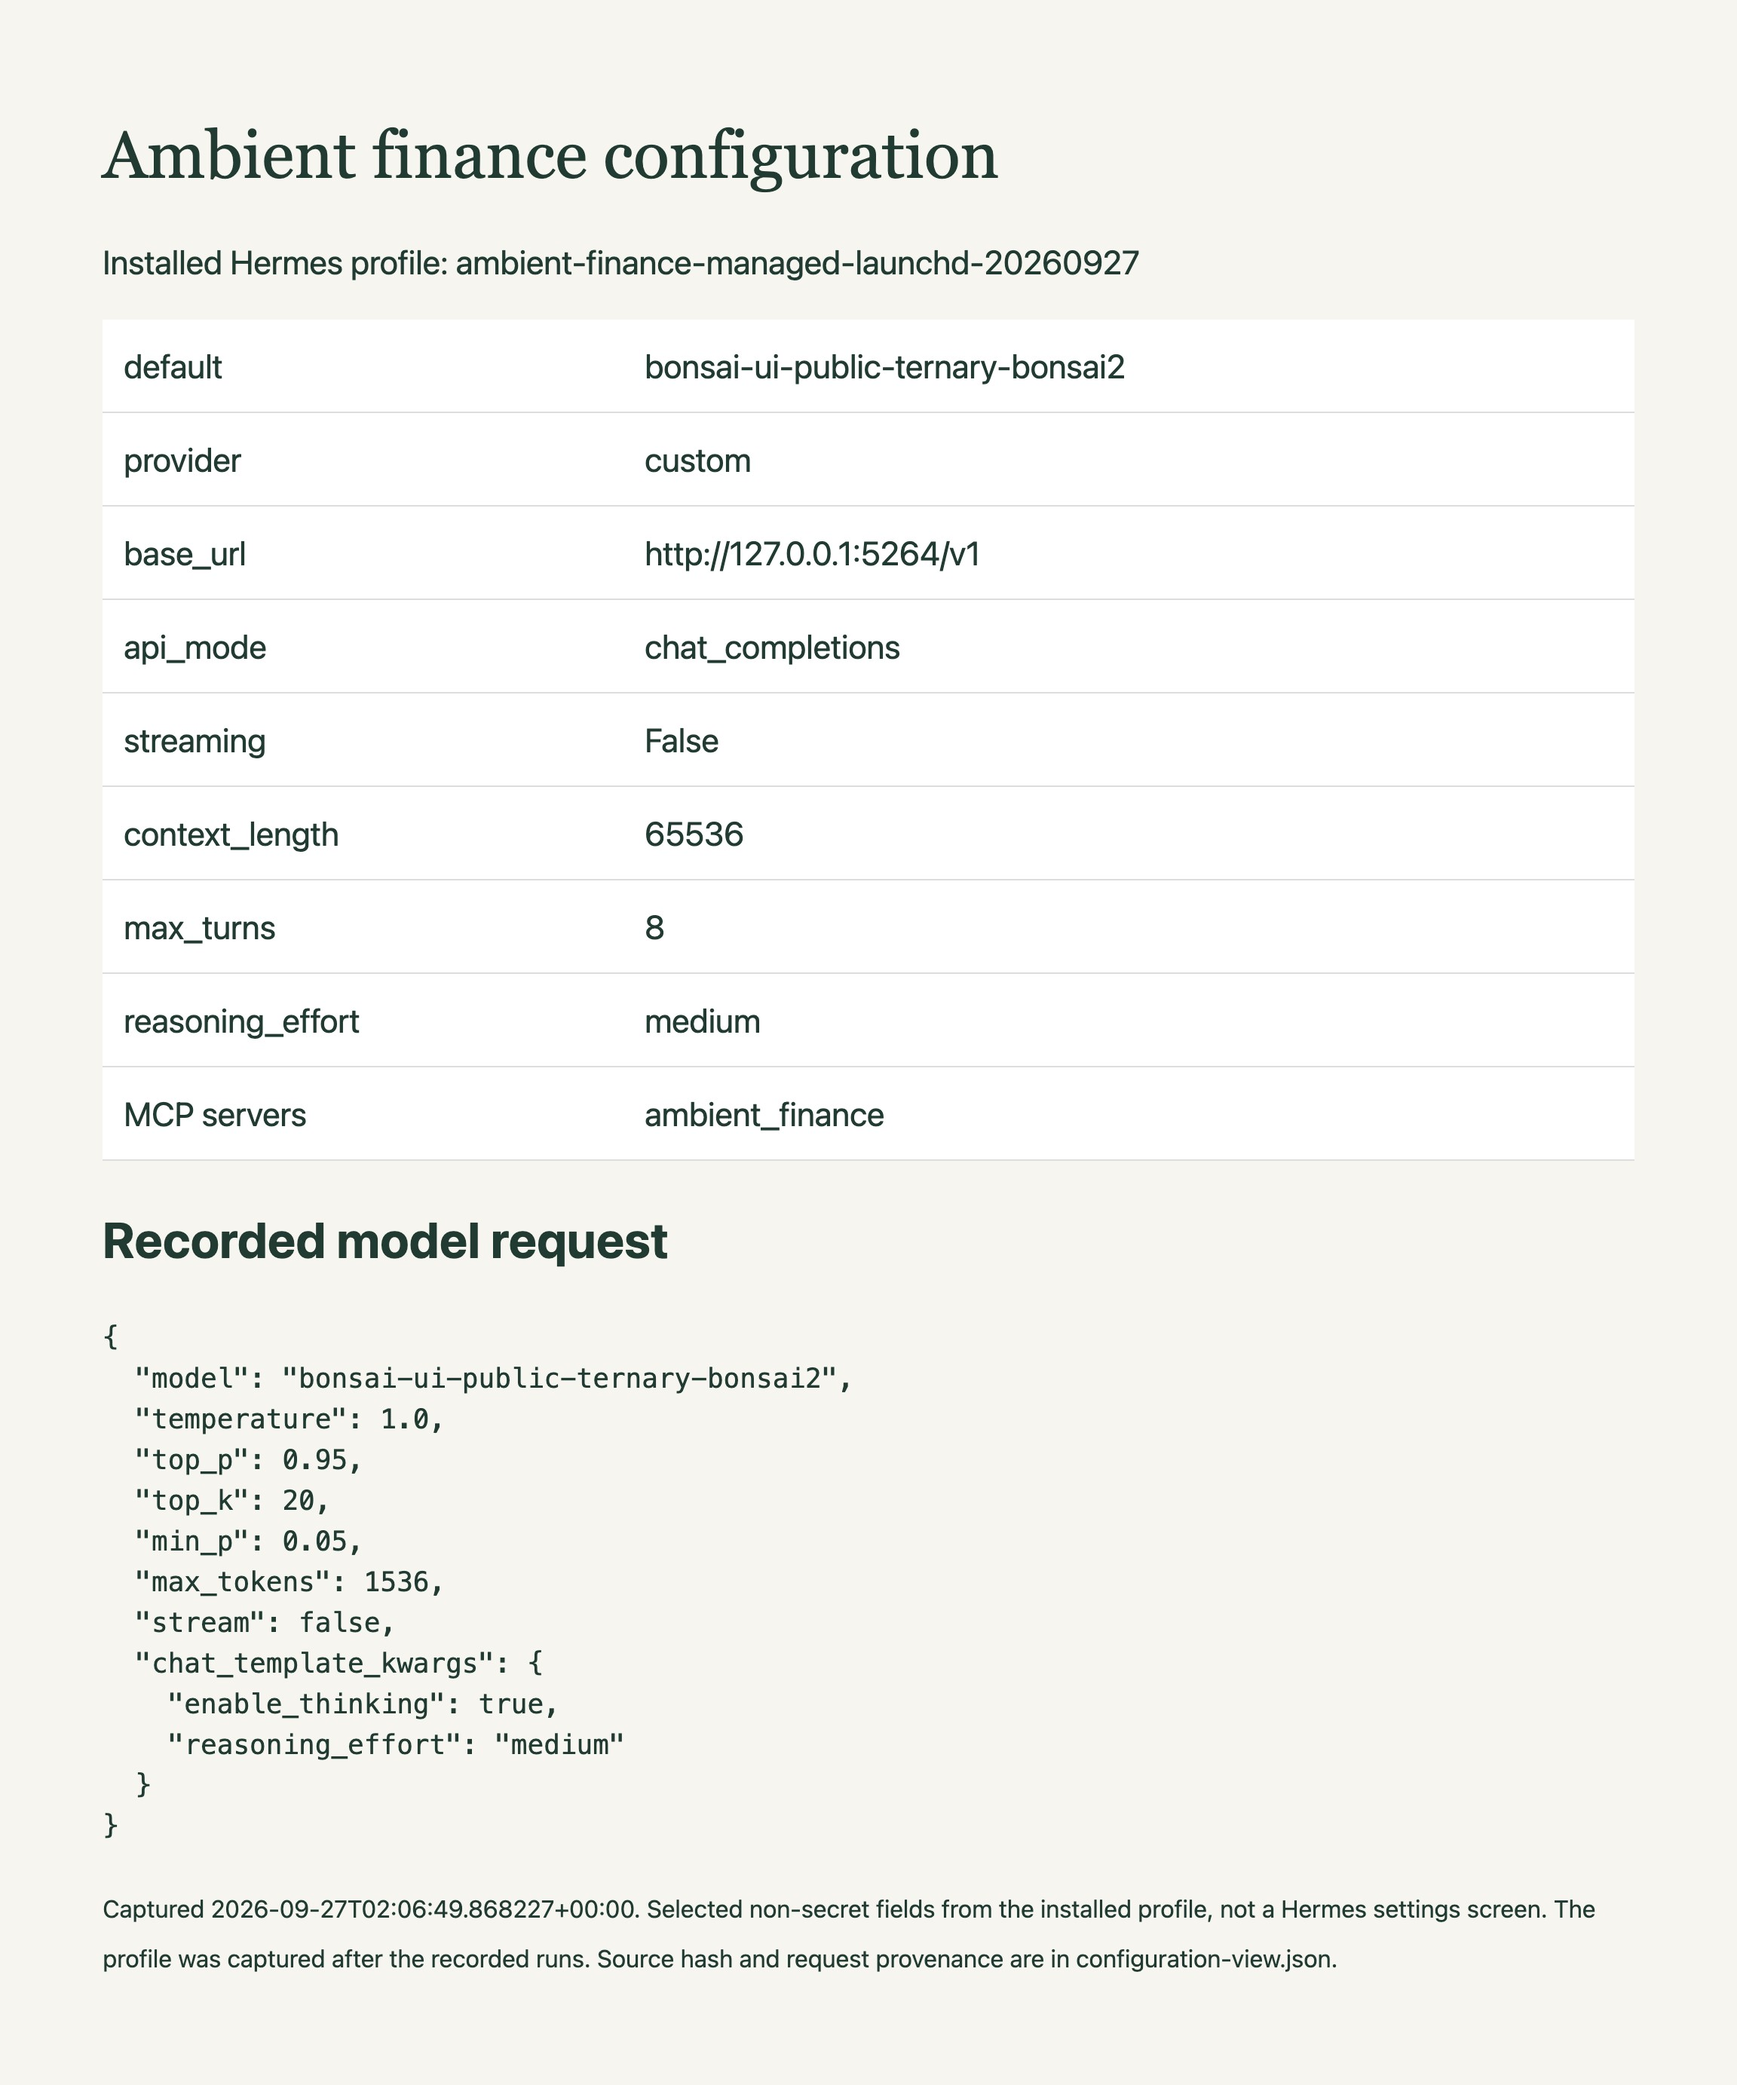
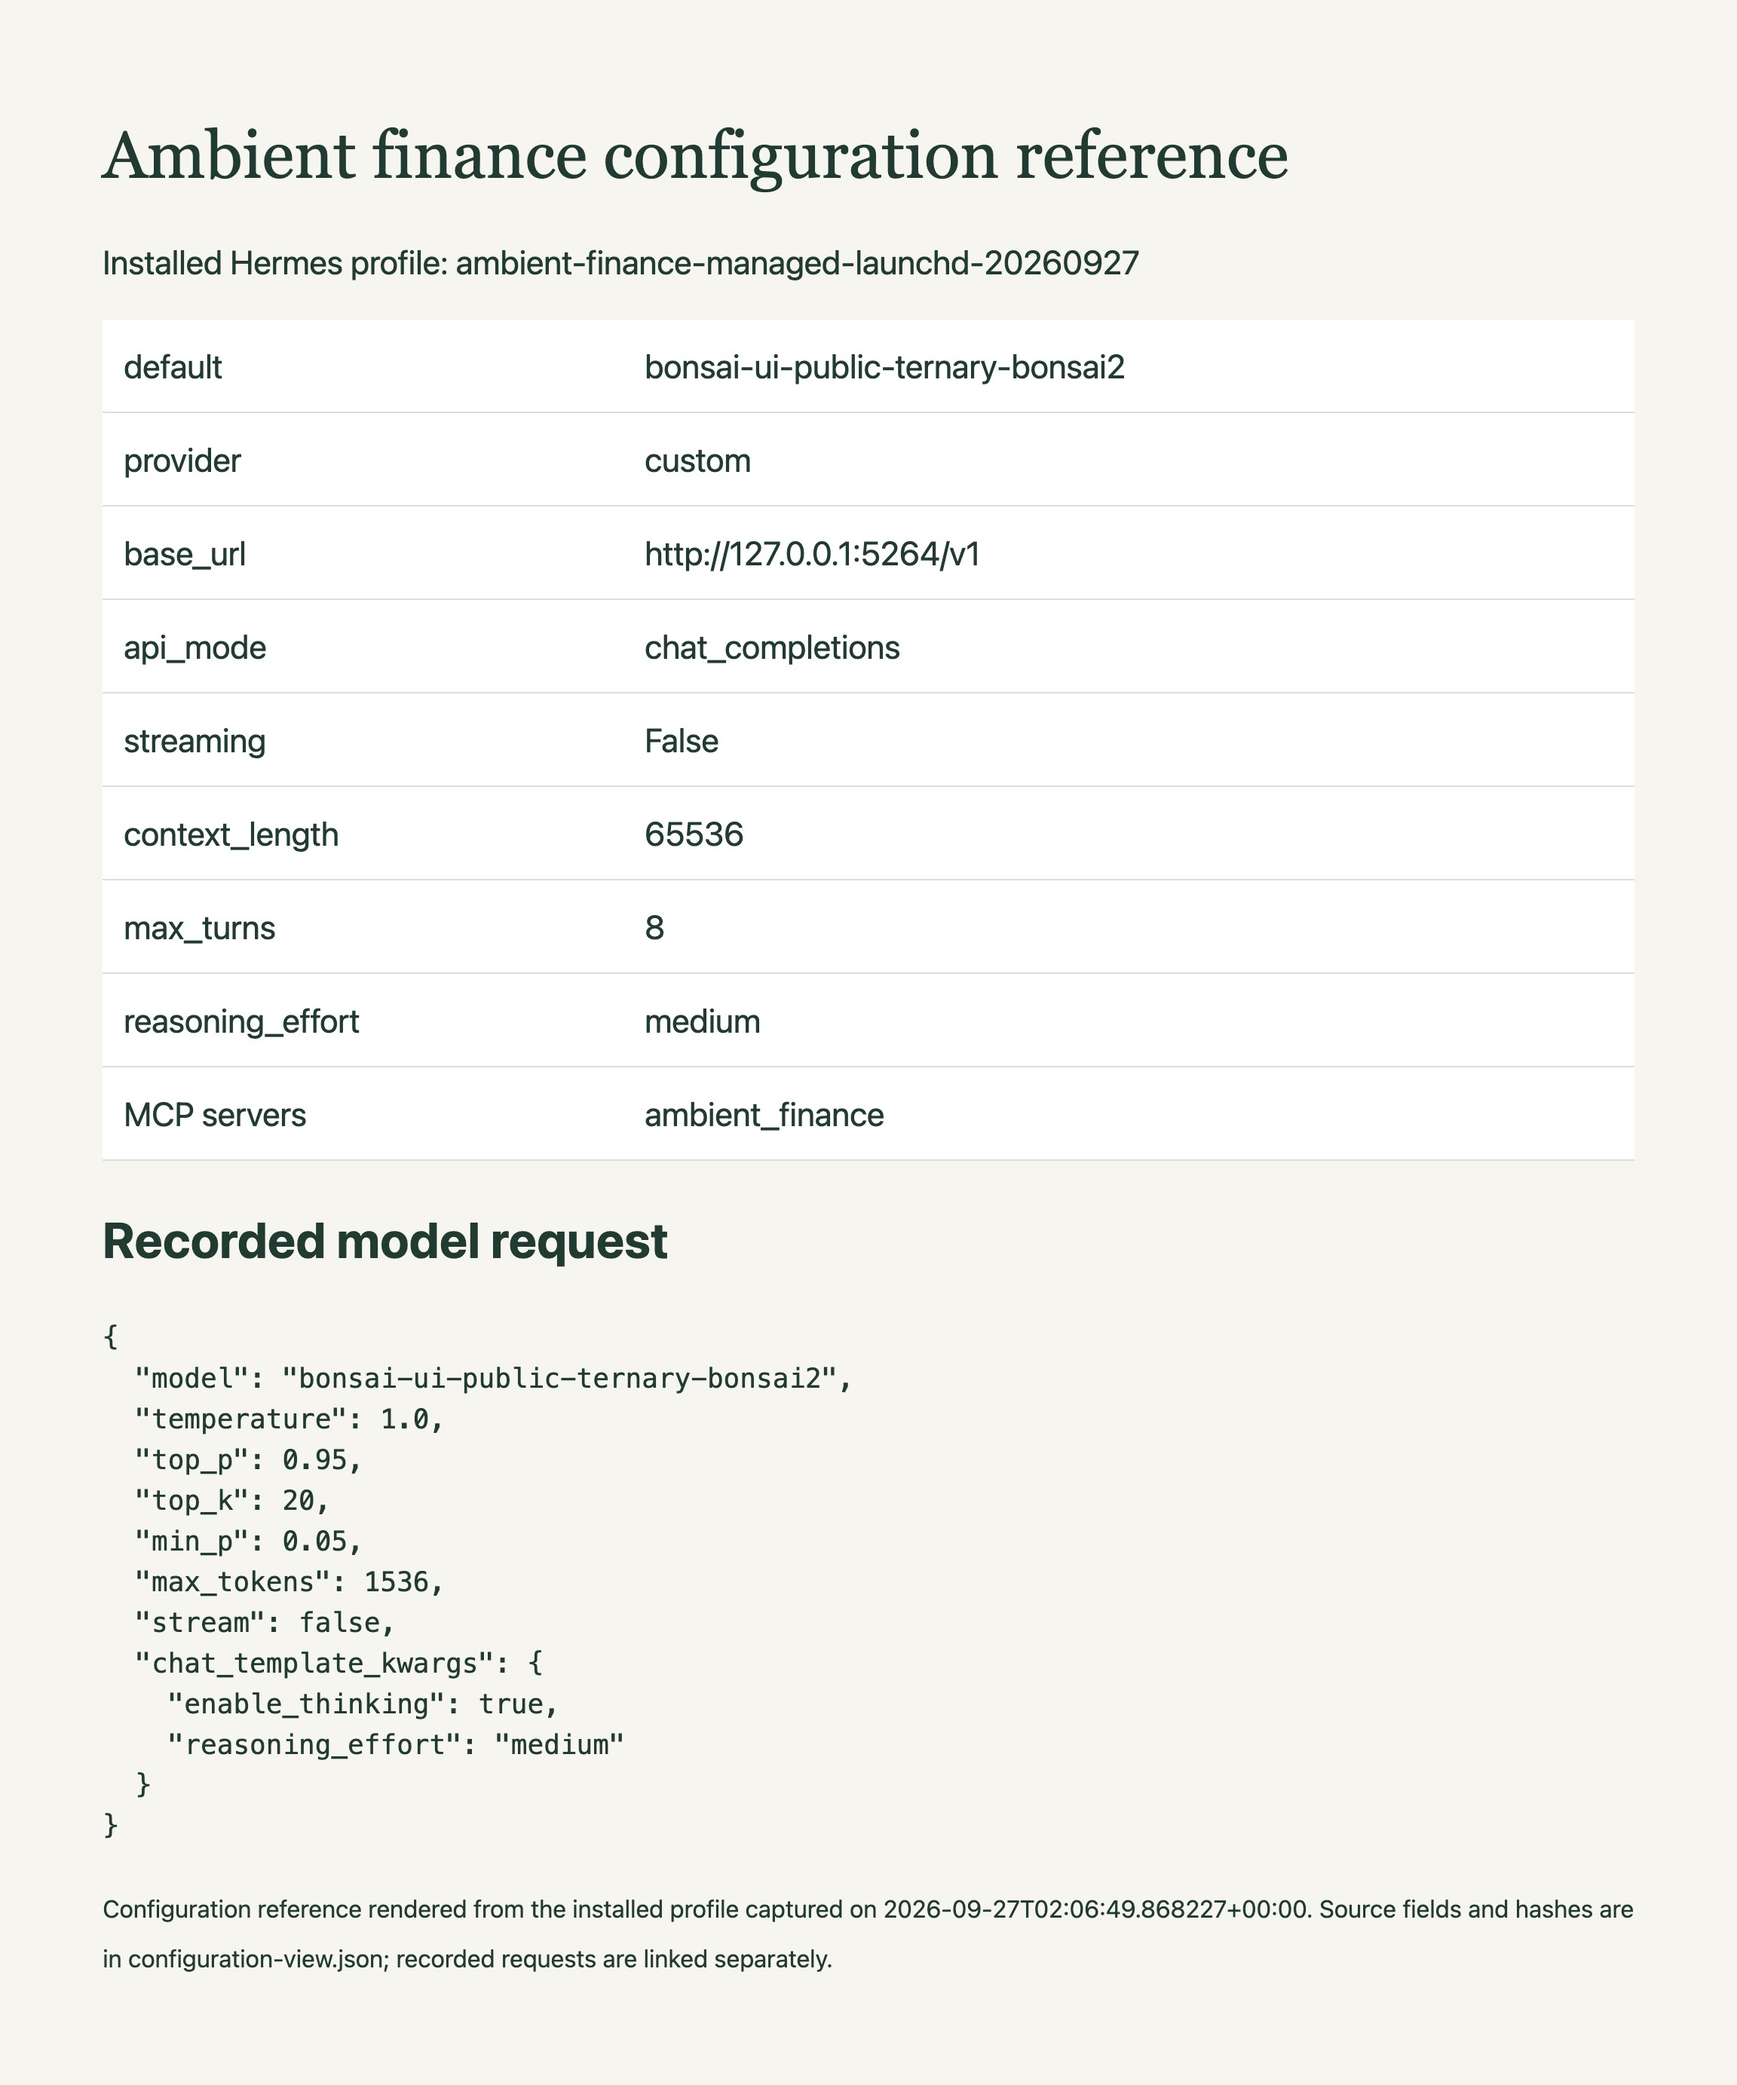
Clarify configuration provenance captions

Changed region(s): [[0.0625, 0.9017, 0.9375, 0.9638], [0.5938, 0.0622, 0.75, 0.0933]]

diff --git a/evidence/configuration-view.html b/evidence/configuration-view.html
@@ -1,4 +1,4 @@
-<!doctype html><html><meta charset="utf-8"><title>ambient-finance configuration</title><style>body{font:22px/1.5 system-ui;background:#f6f5ef;color:#173b31;padding:40px 60px}h1{font:44px Georgia}table{width:100%;border-collapse:collapse;background:white}td{padding:14px;border-bottom:1px solid #ddd}td:first-child{width:34%}small{font-size:16px}pre{font-size:18px}</style><h1>Ambient finance configuration</h1><p>Installed Hermes profile: ambient-finance-managed-launchd-20260927</p><table><tr><td>default</td><td>bonsai-ui-public-ternary-bonsai2</td></tr><tr><td>provider</td><td>custom</td></tr><tr><td>base_url</td><td>http://127.0.0.1:5264/v1</td></tr><tr><td>api_mode</td><td>chat_completions</td></tr><tr><td>streaming</td><td>False</td></tr><tr><td>context_length</td><td>65536</td></tr><tr><td>max_turns</td><td>8</td></tr><tr><td>reasoning_effort</td><td>medium</td></tr><tr><td>MCP servers</td><td>ambient_finance</td></tr></table><h2>Recorded model request</h2><pre>{
+<!doctype html><html><meta charset="utf-8"><title>ambient-finance configuration</title><style>body{font:22px/1.5 system-ui;background:#f6f5ef;color:#173b31;padding:40px 60px}h1{font:44px Georgia}table{width:100%;border-collapse:collapse;background:white}td{padding:14px;border-bottom:1px solid #ddd}td:first-child{width:34%}small{font-size:16px}pre{font-size:18px}</style><h1>Ambient finance configuration reference</h1><p>Installed Hermes profile: ambient-finance-managed-launchd-20260927</p><table><tr><td>default</td><td>bonsai-ui-public-ternary-bonsai2</td></tr><tr><td>provider</td><td>custom</td></tr><tr><td>base_url</td><td>http://127.0.0.1:5264/v1</td></tr><tr><td>api_mode</td><td>chat_completions</td></tr><tr><td>streaming</td><td>False</td></tr><tr><td>context_length</td><td>65536</td></tr><tr><td>max_turns</td><td>8</td></tr><tr><td>reasoning_effort</td><td>medium</td></tr><tr><td>MCP servers</td><td>ambient_finance</td></tr></table><h2>Recorded model request</h2><pre>{
   &quot;model&quot;: &quot;bonsai-ui-public-ternary-bonsai2&quot;,
   &quot;temperature&quot;: 1.0,
   &quot;top_p&quot;: 0.95,
@@ -10,4 +10,4 @@
     &quot;enable_thinking&quot;: true,
     &quot;reasoning_effort&quot;: &quot;medium&quot;
   }
-}</pre><p><small>Captured 2026-09-27T02:06:49.868227+00:00. Selected non-secret fields from the installed profile, not a Hermes settings screen. The profile was captured after the recorded runs. Source hash and request provenance are in configuration-view.json.</small></p></html>
+}</pre><p><small>Configuration reference rendered from the installed profile captured on 2026-09-27T02:06:49.868227+00:00. Source fields and hashes are in configuration-view.json; recorded requests are linked separately.</small></p></html>

diff --git a/docs/recorded-configuration.md b/docs/recorded-configuration.md
@@ -2,10 +2,10 @@
 
 ![Selected installed Hermes configuration](images/configuration.jpg)
 
-The image shows selected fields from the installed `ambient-finance-managed-launchd-20260927` profile. It is a configuration reference rendered from actual saved settings, not a Hermes application screen. The [source record](../evidence/configuration-view.json) includes the capture time and SHA-256 of the source profile. Credentials, tool environments and local paths are excluded. The profile was captured after the runs, so it does not independently prove the exact configuration of an earlier run.
+The image is a configuration reference rendered from selected fields in the installed `ambient-finance-managed-launchd-20260927` profile. The [source record](../evidence/configuration-view.json) records the capture time and profile hash. This snapshot was captured after the runs; use the linked HTTP exchanges to inspect settings applied to a recorded request.
 
-The source record also includes the applied request settings from the first HTTP exchange of session `20260926_214801_43f342`. Its exchange hash and identifier match the [recorded usage](../evidence/managed-launchd-20260927/usage.json). The sampling configuration is observed evidence, not a claim that the settings are optimal.
+The source record also includes the applied request settings from the first HTTP exchange of session `20260926_214801_43f342`. Its exchange hash and identifier match the [recorded usage](../evidence/managed-launchd-20260927/usage.json). Use those values when reproducing that request configuration.
 
 Create an isolated profile with the repository setup command, then inspect its model endpoint and MCP tool paths before starting the gateway or scheduler. Setup templates and the installed profile can differ. A service using an existing profile must reload after its configuration changes.
 
-The model alias alone does not establish the GGUF, runtime build or effective sampling values. Use the launch guide and recorded HTTP requests to check those separately. No matched optimization or cost reduction is established by this screenshot.
+Use the launch guide to match the GGUF and runtime build, then inspect the recorded HTTP request for the effective sampling values.
